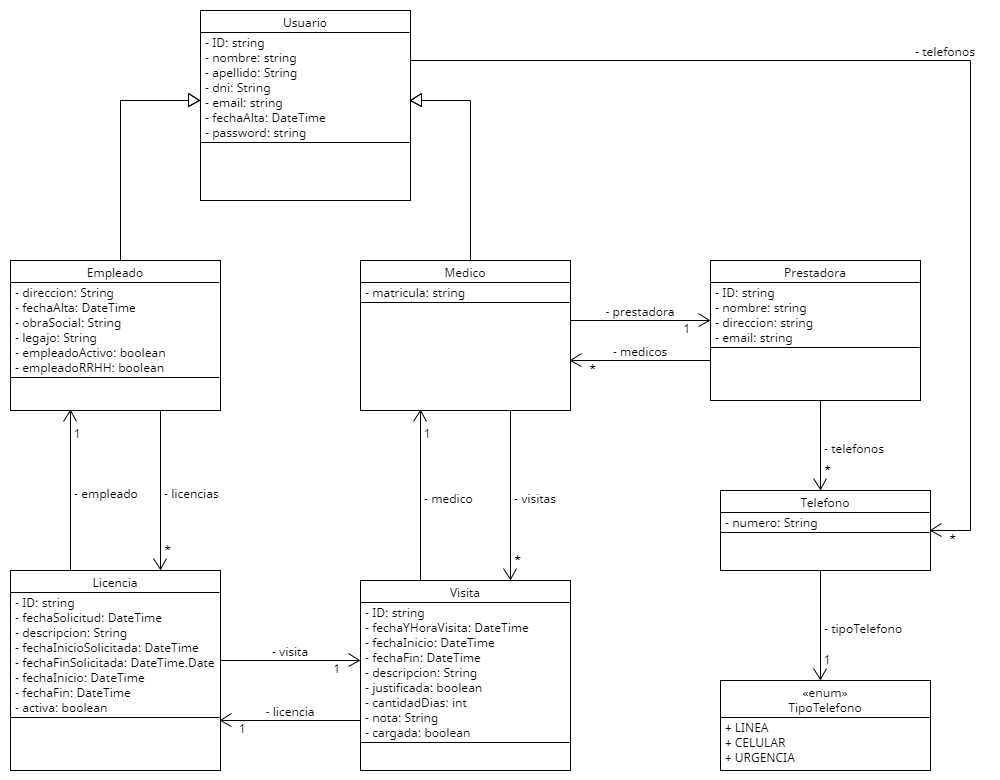
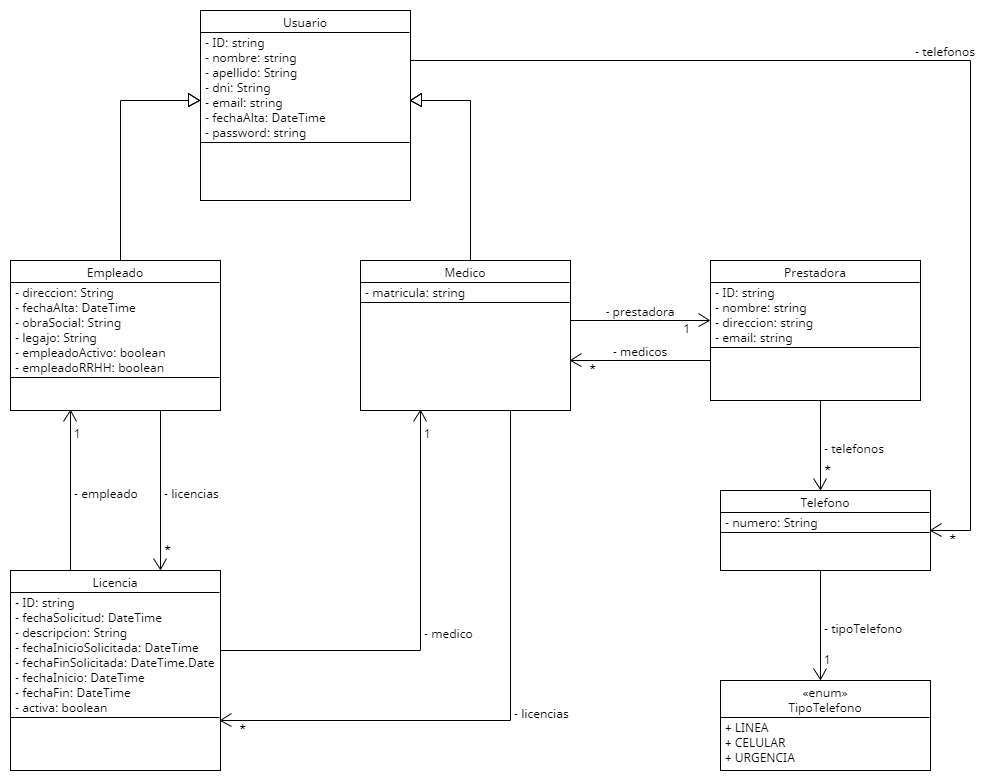
Modificado el diagrama de clases. Modificadas las clases que cambiaron con el nuevo alcance.

diff --git a/Models/Licencia.cs b/Models/Licencia.cs
@@ -4,7 +4,7 @@
         public DateTime FechaSolicitud { get; set; }
         public String Descripcion { get; set; }
         public Empleado Empleado { get; set; }
-        public Visita[] Visitas { get; set; }
+        public Medico Medico { get; set; }
 
         public DateTime FechaInicioSolicitada { get; set; }
 
